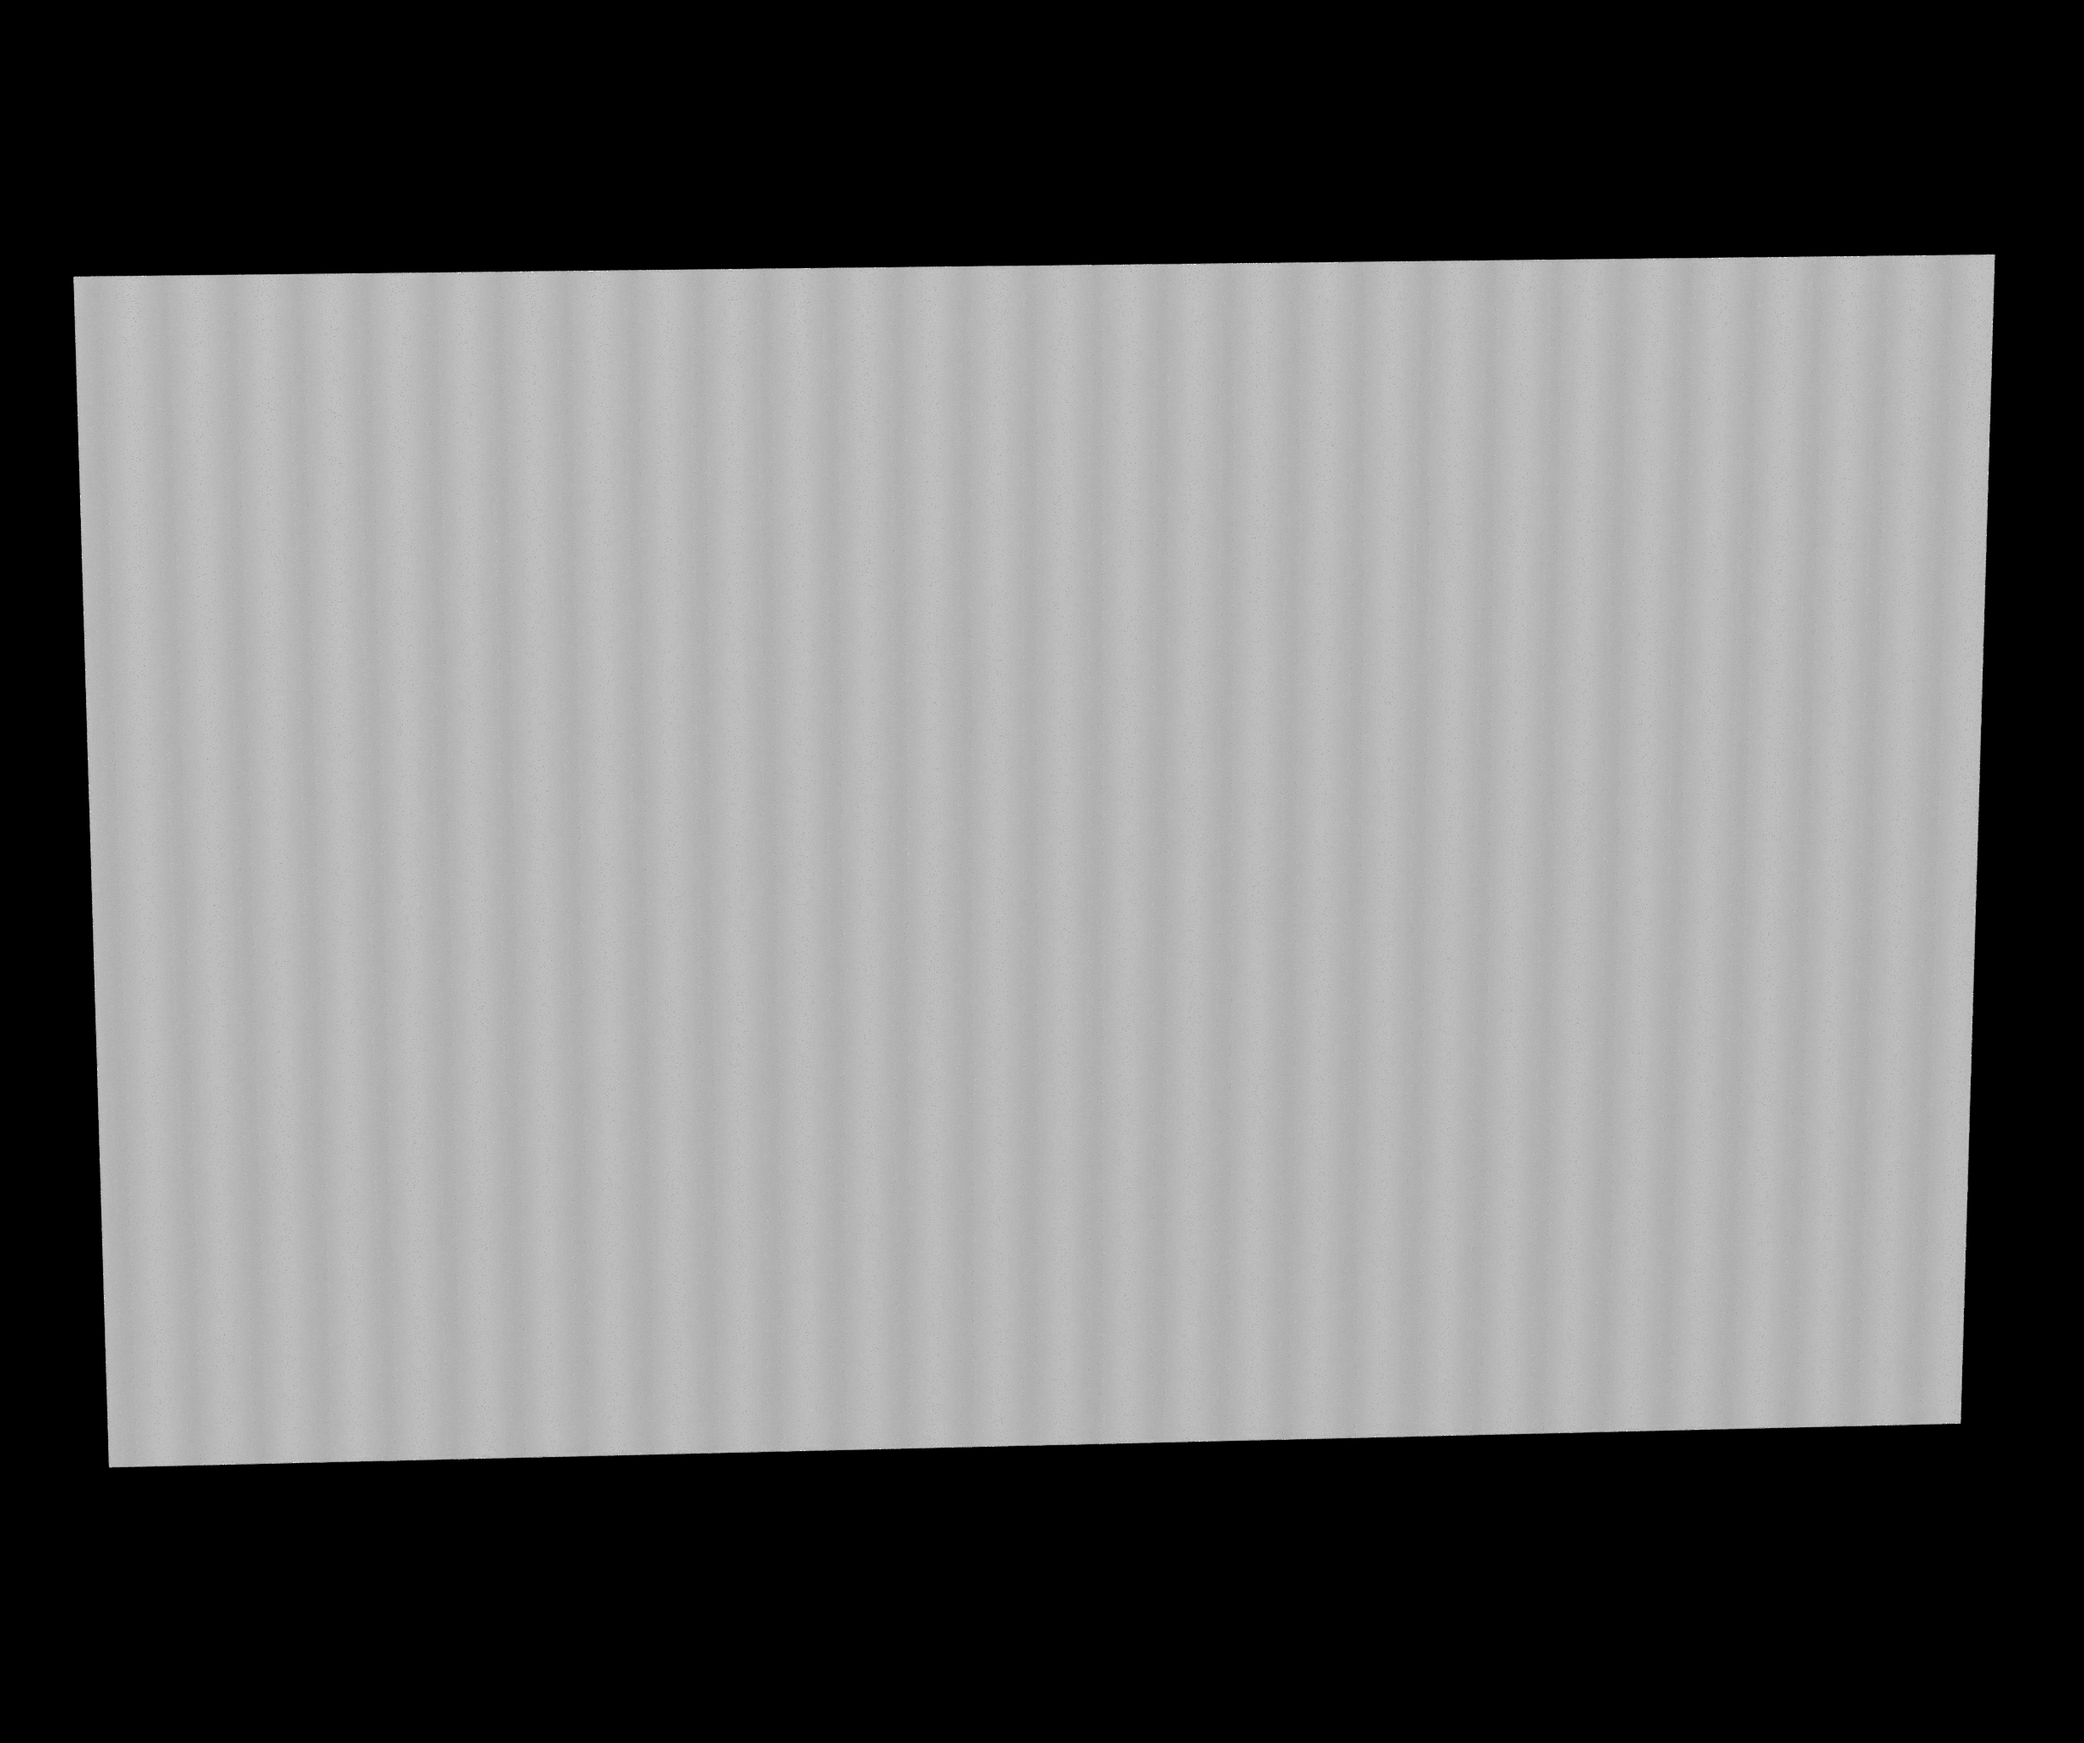
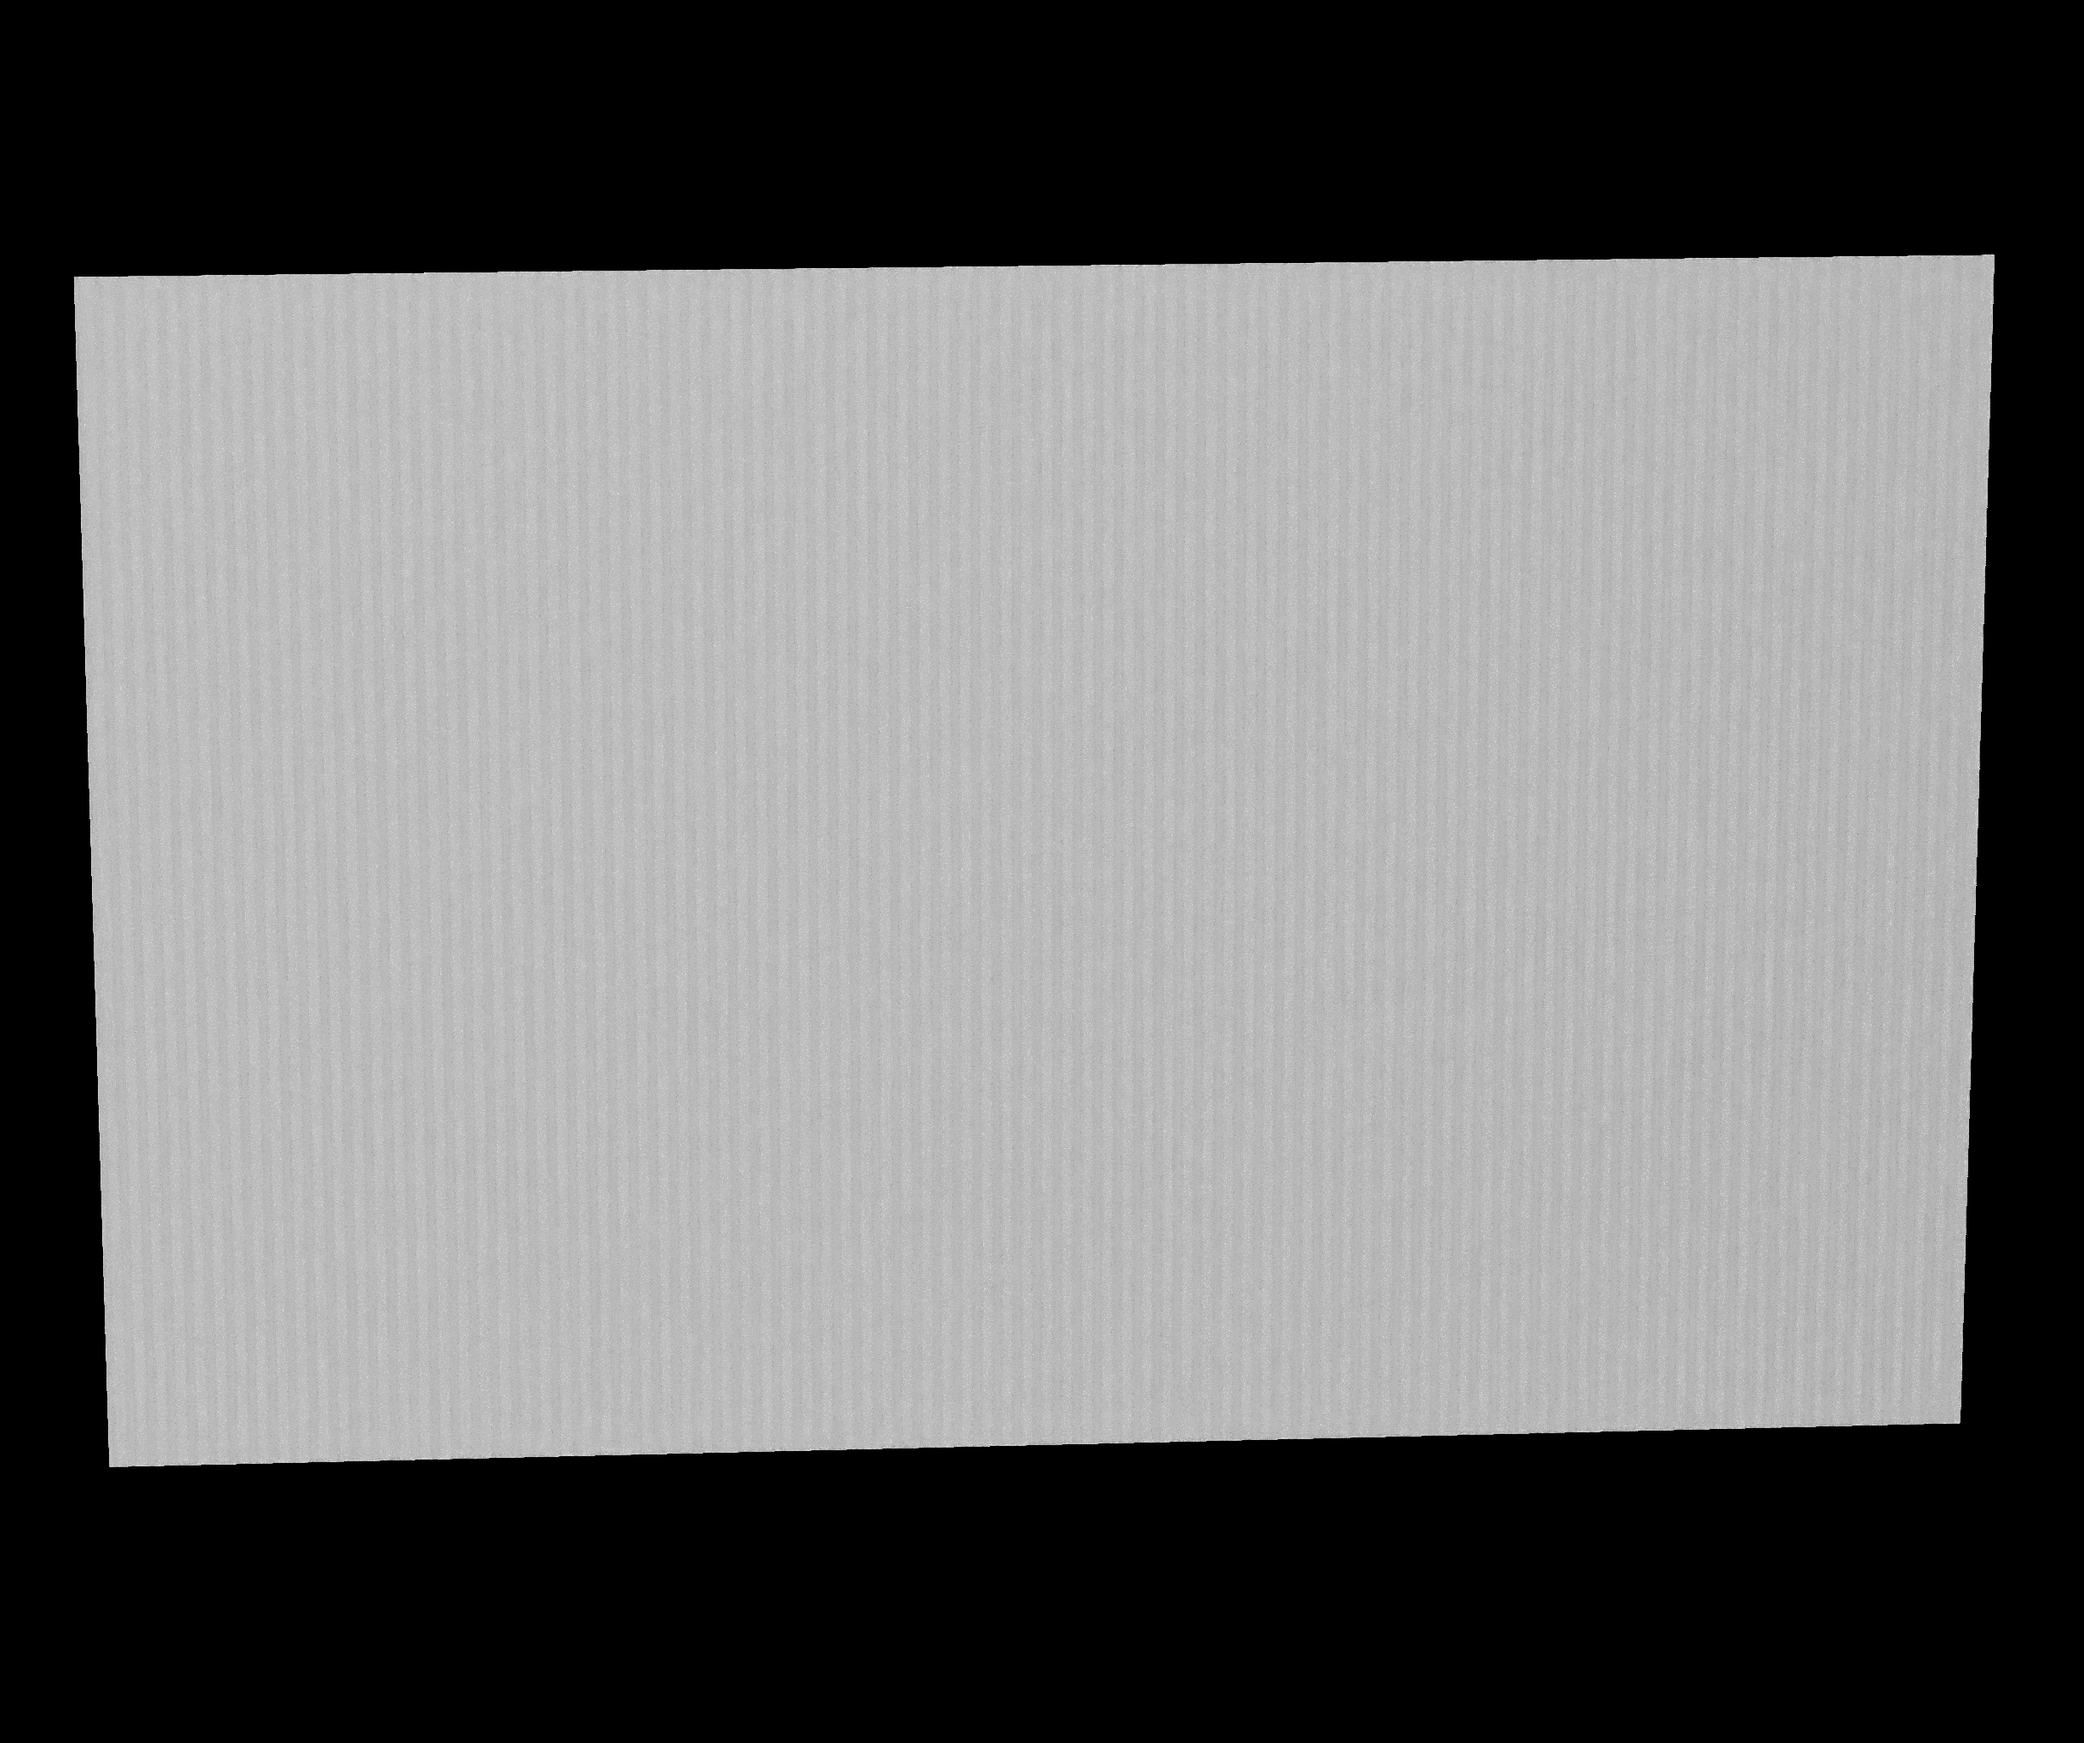
refactor: replace spatial unwrapping with Gray Code temporal phase unwrapping

diff --git a/src/msca/processing/processing_deflectometry.py b/src/msca/processing/processing_deflectometry.py
@@ -2,6 +2,59 @@ import cv2
 import numpy as np
 from typing import Tuple, List
 from scipy.fft import dctn, idctn
+from numba import njit, prange
+
+@njit(parallel=True)
+def _numba_phase_guided_complementary(phi_wrap: np.ndarray, k_gray: np.ndarray) -> np.ndarray:
+    """
+    Filtro de monotonicidade otimizado em Numba para Gray Code Complementar.
+    Transições ideais ocorrem em -pi/2 e pi/2.
+    Zonas seguras são ao redor de -pi, 0 e pi.
+    """
+    H, W = phi_wrap.shape
+    k_corrected = np.zeros_like(k_gray)
+    pi = np.pi
+    
+    for i in prange(H):
+        k_confiavel = k_gray[i, 0]
+        
+        # Inicializa k_confiavel com o primeiro pixel seguro
+        for j in range(W):
+            phi = phi_wrap[i, j]
+            is_safe = (phi <= -3*pi/4) or (phi >= -pi/4 and phi <= pi/4) or (phi >= 3*pi/4)
+            if is_safe:
+                k_confiavel = k_gray[i, j]
+                break
+                
+        for j in range(W):
+            phi = phi_wrap[i, j]
+            
+            # Zonas Seguras (longe das transições -pi/2 e pi/2)
+            is_safe = (phi <= -3*pi/4) or (phi >= -pi/4 and phi <= pi/4) or (phi >= 3*pi/4)
+            
+            if is_safe:
+                k_confiavel = k_gray[i, j]
+                k_corr = k_confiavel
+            else:
+                # Zonas de Risco (perto das transições)
+                if phi > -3*pi/4 and phi < -pi/4:
+                    # Transição em -pi/2
+                    if phi < -pi/2.0:
+                        k_corr = k_confiavel
+                    else:
+                        k_corr = k_confiavel + 1
+                elif phi > pi/4 and phi < 3*pi/4:
+                    # Transição em pi/2
+                    if phi < pi/2.0:
+                        k_corr = k_confiavel
+                    else:
+                        k_corr = k_confiavel + 1
+                else:
+                    k_corr = k_confiavel
+                    
+            k_corrected[i, j] = k_corr
+            
+    return k_corrected
 
 class PMDProcessing:
     """
@@ -223,4 +276,96 @@ class PMDProcessing:
         unwrapped_phase = np.where(mask, unwrapped_phase, np.nan)
         
         return unwrapped_phase
+
+    def decode_graycode(self, gray_images: List[np.ndarray], background: np.ndarray = None) -> np.ndarray:
+        """
+        Decodifica a sequência de código Gray para encontrar a ordem da franja (QSI/k).
+        
+        Args:
+            gray_images: Lista de imagens do código Gray (ordenadas do bit mais significativo para o menos).
+            background: Imagem de intensidade de fundo (threshold) para binarização.
+            
+        Returns:
+            Matriz de inteiros representando a ordem da franja (k).
+        """
+        if background is None:
+            # Se não houver threshold, tenta usar a média das imagens Gray
+            img_stack = np.array(gray_images, dtype=np.float32)
+            background = np.mean(img_stack, axis=0)
+            
+        # 1. Binarização usando o threshold
+        binary_images = [(img > background).astype(np.uint8) for img in gray_images]
+        
+        # 2. Conversão de Gray para Binário normal
+        binary_normal = []
+        binary_normal.append(binary_images[0])
+        for i in range(1, len(binary_images)):
+            binary_normal.append(np.logical_xor(binary_normal[i-1], binary_images[i]).astype(np.uint8))
+            
+        # 3. Conversão de Binário para Inteiro (QSI / k)
+        k = np.zeros_like(gray_images[0], dtype=np.int32)
+        num_bits = len(binary_images)
+        for i, b_img in enumerate(binary_normal):
+            # bit 0 é o MSB
+            weight = 1 << (num_bits - 1 - i)
+            k += b_img.astype(np.int32) * weight
+            
+        return k
+
+    def graycode_unwrapping(self, wrapped_phase: np.ndarray, k: np.ndarray, use_phase_guidance: bool = True) -> np.ndarray:
+        """
+        Desembrulha a fase usando a ordem de franja k extraída do código Gray.
+        Assume Padrão Gray Code Complementar (Transição dupla por período de franja).
+        
+        Args:
+            wrapped_phase: Fase embrulhada entre -pi e pi.
+            k: Ordem da franja QSI (transita a cada pi/2).
+            use_phase_guidance: Utiliza o filtro guiado para corrigir o atraso do k causado por desfoque.
+            
+        Returns:
+            Fase absoluta contínua.
+        """
+        if use_phase_guidance:
+            k_corrected = _numba_phase_guided_complementary(wrapped_phase, k)
+            k_float = k_corrected.astype(np.float32)
+        else:
+            k_float = k.astype(np.float32)
+            
+        absolute_phase = np.zeros_like(wrapped_phase)
+        
+        # O código gerado (baseado no Voris) possui duas regiões de Gray Code para cada franja.
+        # Ou seja, o valor 'k' (QSI) incrementa duas vezes por período da senóide.
+        # As quebras ideais do k ocorrem em -pi/2 e +pi/2, evitando a borda ruidosa de +-pi.
+        
+        mask_left1 = wrapped_phase <= -np.pi / 2.0
+        mask_left2 = (wrapped_phase > -np.pi / 2.0) & (wrapped_phase < np.pi / 2.0)
+        mask_left3 = wrapped_phase >= np.pi / 2.0
+        
+        # Desembrulho robusto de fase (Spatial-Temporal shift):
+        absolute_phase[mask_left1] = wrapped_phase[mask_left1] + 2.0 * np.pi * np.floor((k_float[mask_left1] + 1.0) / 2.0)
+        absolute_phase[mask_left2] = wrapped_phase[mask_left2] + 2.0 * np.pi * np.floor(k_float[mask_left2] / 2.0)
+        absolute_phase[mask_left3] = wrapped_phase[mask_left3] + 2.0 * np.pi * (np.floor((k_float[mask_left3] + 1.0) / 2.0) - 1.0)
+        
+        return absolute_phase
+
+    def graycode_unwrapping_classic(self, wrapped_phase: np.ndarray, k: np.ndarray, use_phase_guidance: bool = True) -> np.ndarray:
+        """
+        Desembrulha a fase para o método Gray Code Clássico (relação 1:1, transição em +-pi).
+        
+        Args:
+            wrapped_phase: Fase embrulhada entre -pi e pi.
+            k: Matriz contendo a ordem das franjas (QSI).
+            use_phase_guidance: Liga/Desliga o filtro de correção guiado pela fase (Phase-Guided Correction).
+                                Otimizado via Numba para alta performance em imagens de alta resolução.
+                                
+        Returns:
+            Matriz de Fase Desembrulhada contínua.
+        """
+        if use_phase_guidance:
+            # Chama a função otimizada em Numba
+            return _numba_phase_guided_unwrapping(wrapped_phase, k)
+        else:
+            # Equação clássica matemática direta (susceptível a spikes nas bordas devido a desfoque)
+            return wrapped_phase + (k.astype(np.float32) * 2.0 * np.pi)
+
 

diff --git a/main_phase_extraction.py b/main_phase_extraction.py
@@ -86,10 +86,10 @@ def evaluate_quality(wrapped_phase, modulation, axis_name, unwrapped_phase=None)
     plt.close()
 
 def main():
-    print("Iniciando extração de Fase para Deflectometria (Single Frequency)...")
+    print("Iniciando extração de Fase com Desembrulho Temporal (Gray Code)...")
     
-    dir_x = os.path.expanduser("~/Desktop/sim_deflectometria/vertical")
-    dir_y = os.path.expanduser("~/Desktop/sim_deflectometria/horizontal")
+    dir_gray = os.path.expanduser("~/Desktop/sim_deflectometria/PMD/Gray_Code")
+    dir_phase = os.path.expanduser("~/Desktop/sim_deflectometria/PMD/Phase")
     
     os.makedirs("out", exist_ok=True)
     
@@ -97,47 +97,53 @@ def main():
     dummy_dist = np.zeros(5)
     pmd = PMDProcessing(camera_matrix=dummy_cam_matrix, dist_coeffs=dummy_dist)
 
-    # ----- EIXO X -----
-    print(f"Processando Eixo X a partir de: {dir_x} ...")
-    imgs_x = load_images_from_directory(dir_x)
+    print(f"Processando Fase a partir de: {dir_phase} ...")
+    imgs_phase = load_images_from_directory(dir_phase, prefix="cam0_phase_step")
     
-    if len(imgs_x) > 0:
-        wrapped_x, mod_x, _ = pmd.decode_nstep_phase(imgs_x)
-        np.save("out/wrapped_phase_x.npy", wrapped_x)
-        cv2.imwrite("out/wrapped_phase_x.png", cv2.normalize(wrapped_x, None, 0, 255, cv2.NORM_MINMAX, dtype=cv2.CV_8U))
-        print("-> Fase do Eixo X salva em 'out/wrapped_phase_x.npy'")
-        
-        # Desembrulho Espacial (Spatial Unwrapping)
-        print("-> Realizando desembrulho espacial 2D (DCT)...")
-        unwrapped_x = pmd.spatial_unwrapping(wrapped_x, mod_x)
-        np.save("out/unwrapped_phase_x.npy", unwrapped_x)
-        print("-> Fase Absoluta Desembrulhada salva em 'out/unwrapped_phase_x.npy'")
-        
-        evaluate_quality(wrapped_x, mod_x, 'X', unwrapped_x)
-        print("-> Análise de qualidade do Eixo X salva em 'out/quality_analysis_X.png'")
-    else:
-        print(f"-> Imagens do Eixo X não encontradas ou diretório incorreto.")
-
-    # ----- EIXO Y -----
-    print(f"\nProcessando Eixo Y a partir de: {dir_y} ...")
-    imgs_y = load_images_from_directory(dir_y)
+    print(f"Processando Gray Code a partir de: {dir_gray} ...")
+    imgs_gray = load_images_from_directory(dir_gray, prefix="cam0_gray_bit")
     
-    if len(imgs_y) > 0:
-        wrapped_y, mod_y, _ = pmd.decode_nstep_phase(imgs_y)
-        np.save("out/wrapped_phase_y.npy", wrapped_y)
-        cv2.imwrite("out/wrapped_phase_y.png", cv2.normalize(wrapped_y, None, 0, 255, cv2.NORM_MINMAX, dtype=cv2.CV_8U))
-        print("-> Fase do Eixo Y salva em 'out/wrapped_phase_y.npy'")
+    if len(imgs_phase) > 0 and len(imgs_gray) > 0:
+        wrapped, mod, bg_phase = pmd.decode_nstep_phase(imgs_phase)
+        np.save("out/wrapped_phase.npy", wrapped)
+        cv2.imwrite("out/wrapped_phase.png", cv2.normalize(wrapped, None, 0, 255, cv2.NORM_MINMAX, dtype=cv2.CV_8U))
+        print("-> Fase salva em 'out/wrapped_phase.npy'")
         
-        # Desembrulho Espacial (Spatial Unwrapping)
-        print("-> Realizando desembrulho espacial 2D (DCT)...")
-        unwrapped_y = pmd.spatial_unwrapping(wrapped_y, mod_y)
-        np.save("out/unwrapped_phase_y.npy", unwrapped_y)
-        print("-> Fase Absoluta Desembrulhada salva em 'out/unwrapped_phase_y.npy'")
+        # Carregar imagem branca (se existir) para definir o limiar de binarização do Gray Code
+        white_path = os.path.join(dir_gray, "cam0_gray_white.png")
+        if os.path.exists(white_path):
+            img_white = cv2.imread(white_path, cv2.IMREAD_GRAYSCALE)
+            threshold_bg = img_white.astype(np.float32) * 0.5
+            print("-> Usando 'cam0_gray_white.png' para o cálculo do limiar (threshold = 0.5 * white).")
+        else:
+            threshold_bg = bg_phase
+            print("-> Imagem branca não encontrada, usando a média das franjas senoidais como limiar.")
         
-        evaluate_quality(wrapped_y, mod_y, 'Y', unwrapped_y)
-        print("-> Análise de qualidade do Eixo Y salva em 'out/quality_analysis_Y.png'")
+        # Desembrulho Temporal (Gray Code)
+        print("-> Decodificando sequencia Gray Code...")
+        k = pmd.decode_graycode(imgs_gray, background=threshold_bg)
+        np.save("out/fringe_order_k.npy", k)
+        cv2.imwrite("out/fringe_order_k.png", cv2.normalize(k, None, 0, 255, cv2.NORM_MINMAX, dtype=cv2.CV_8U))
+        
+        print("-> Realizando desembrulho temporal...")
+        unwrapped = pmd.graycode_unwrapping(wrapped, k, use_phase_guidance=True)
+        
+        # Aplicar mascara de qualidade e ruído (SNR baixo)
+        valid_mod = mod[mod > 1e-3]
+        if len(valid_mod) > 0:
+            mod_threshold = np.percentile(valid_mod, 95) * 0.1
+        else:
+            mod_threshold = 1.0
+        mask = mod > mod_threshold
+        unwrapped = np.where(mask, unwrapped, np.nan)
+        
+        np.save("out/unwrapped_phase.npy", unwrapped)
+        print("-> Fase Absoluta Desembrulhada salva em 'out/unwrapped_phase.npy'")
+        
+        evaluate_quality(wrapped, mod, 'X', unwrapped)
+        print("-> Análise de qualidade salva em 'out/quality_analysis_X.png'")
     else:
-        print(f"-> Imagens do Eixo Y não encontradas ou diretório incorreto.")
+        print(f"-> Imagens não encontradas. Verifique os diretórios e prefixos.")
         
     print("\nProcessamento concluído.")
 
